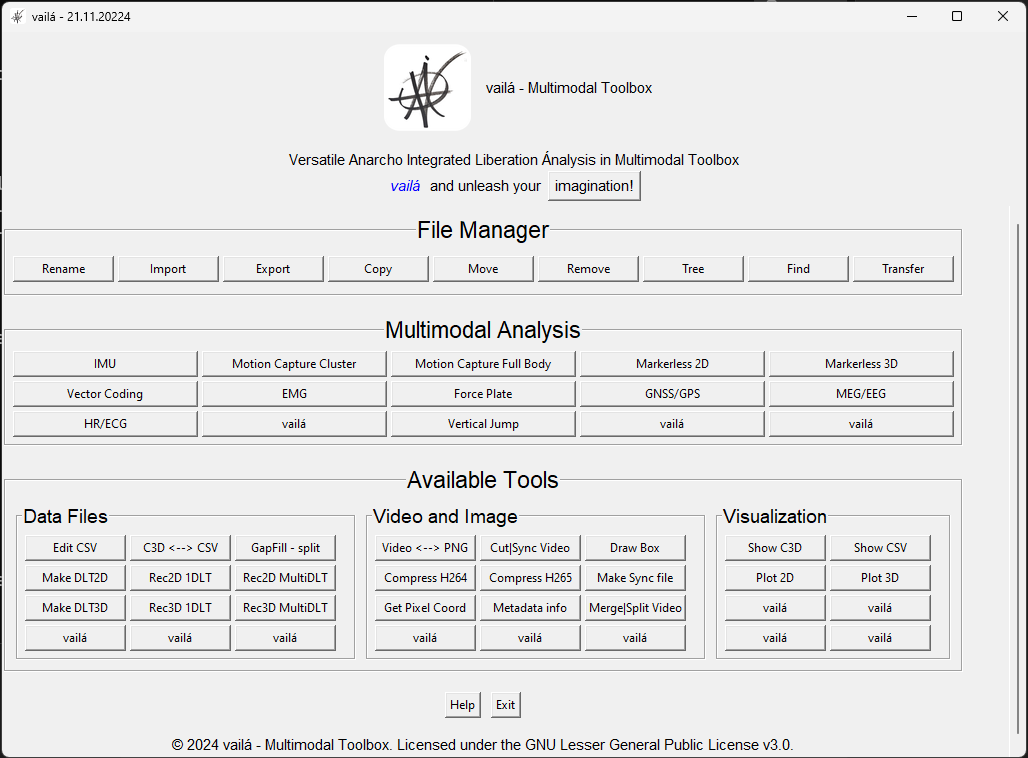
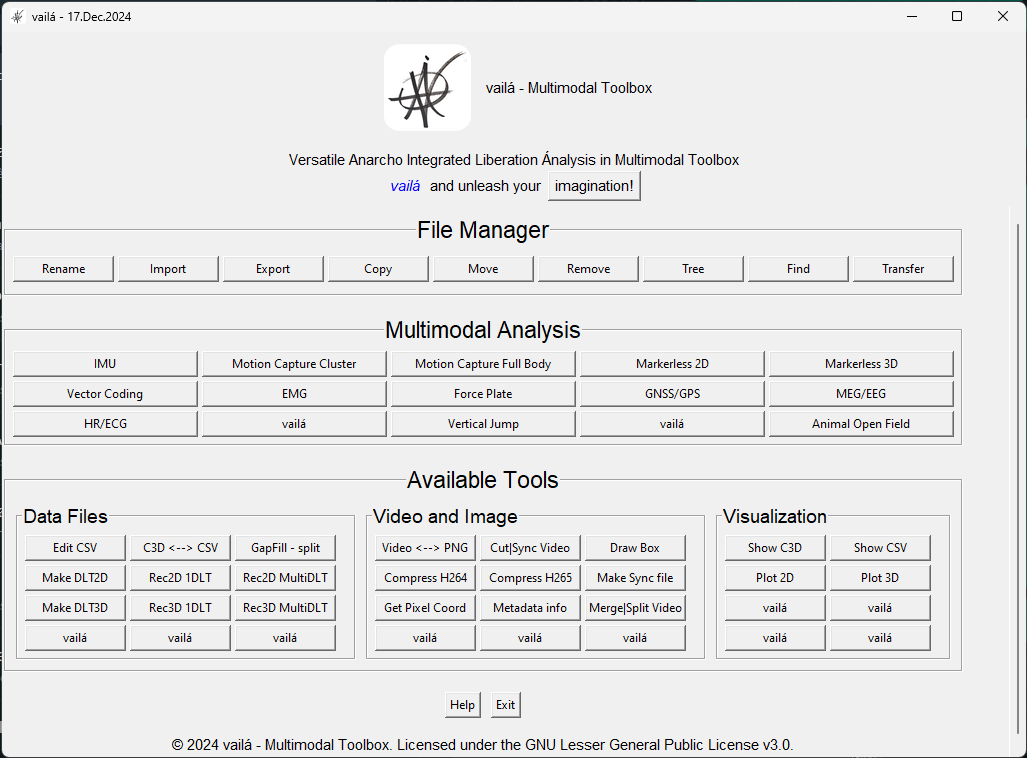
update image start_gui.png in docs, and version in main vaila.py (#197)
* dir test GRF gait

* improve ffmpeg in codes video and png

* dlc2vaila.py convert create and adjust rearrange_data.py to run dlc2vaila.py - fix getpixelvideo

* start create open field test for mice

* start create open field test for mice

* Update getpixelvideo.py

* Update rearrange_data.py

* Update uninstall_vaila_win.ps1 remove Start menu windows

* Update install_vaila_win.ps1 - update winget apps and conda

* Update install_vaila_win.ps1

* Animal Openfield test dir create

* Animal Openfield graph update

* openfield v01 need correct zones

* openfield finish

* openfield finish

* update install win to shortcut desktop and update animal_open_field save distance in zones

* update seaborn install

* update image start_gui.png in docs, and version in main vaila.py

diff --git a/vaila.py b/vaila.py
@@ -3,9 +3,9 @@
 vaila.py
 ===============================================================================
 Author: Paulo R. P. Santiago
-Date: 09 December 2024
-Version: 09.Dec.2024
-Python Version: 3.11
+Date: 17 December 2024
+Version: 17.Dec.2024
+Python Version: 3.11.11
 
 Description:
 ------------
@@ -213,7 +213,7 @@ class Vaila(tk.Tk):
 
         """
         super().__init__()
-        self.title("vailá - 09.Dec.2024")
+        self.title("vailá - 17.Dec.2024")
 
         # Adjust dimensions and layout based on the operating system
         self.set_dimensions_based_on_os()